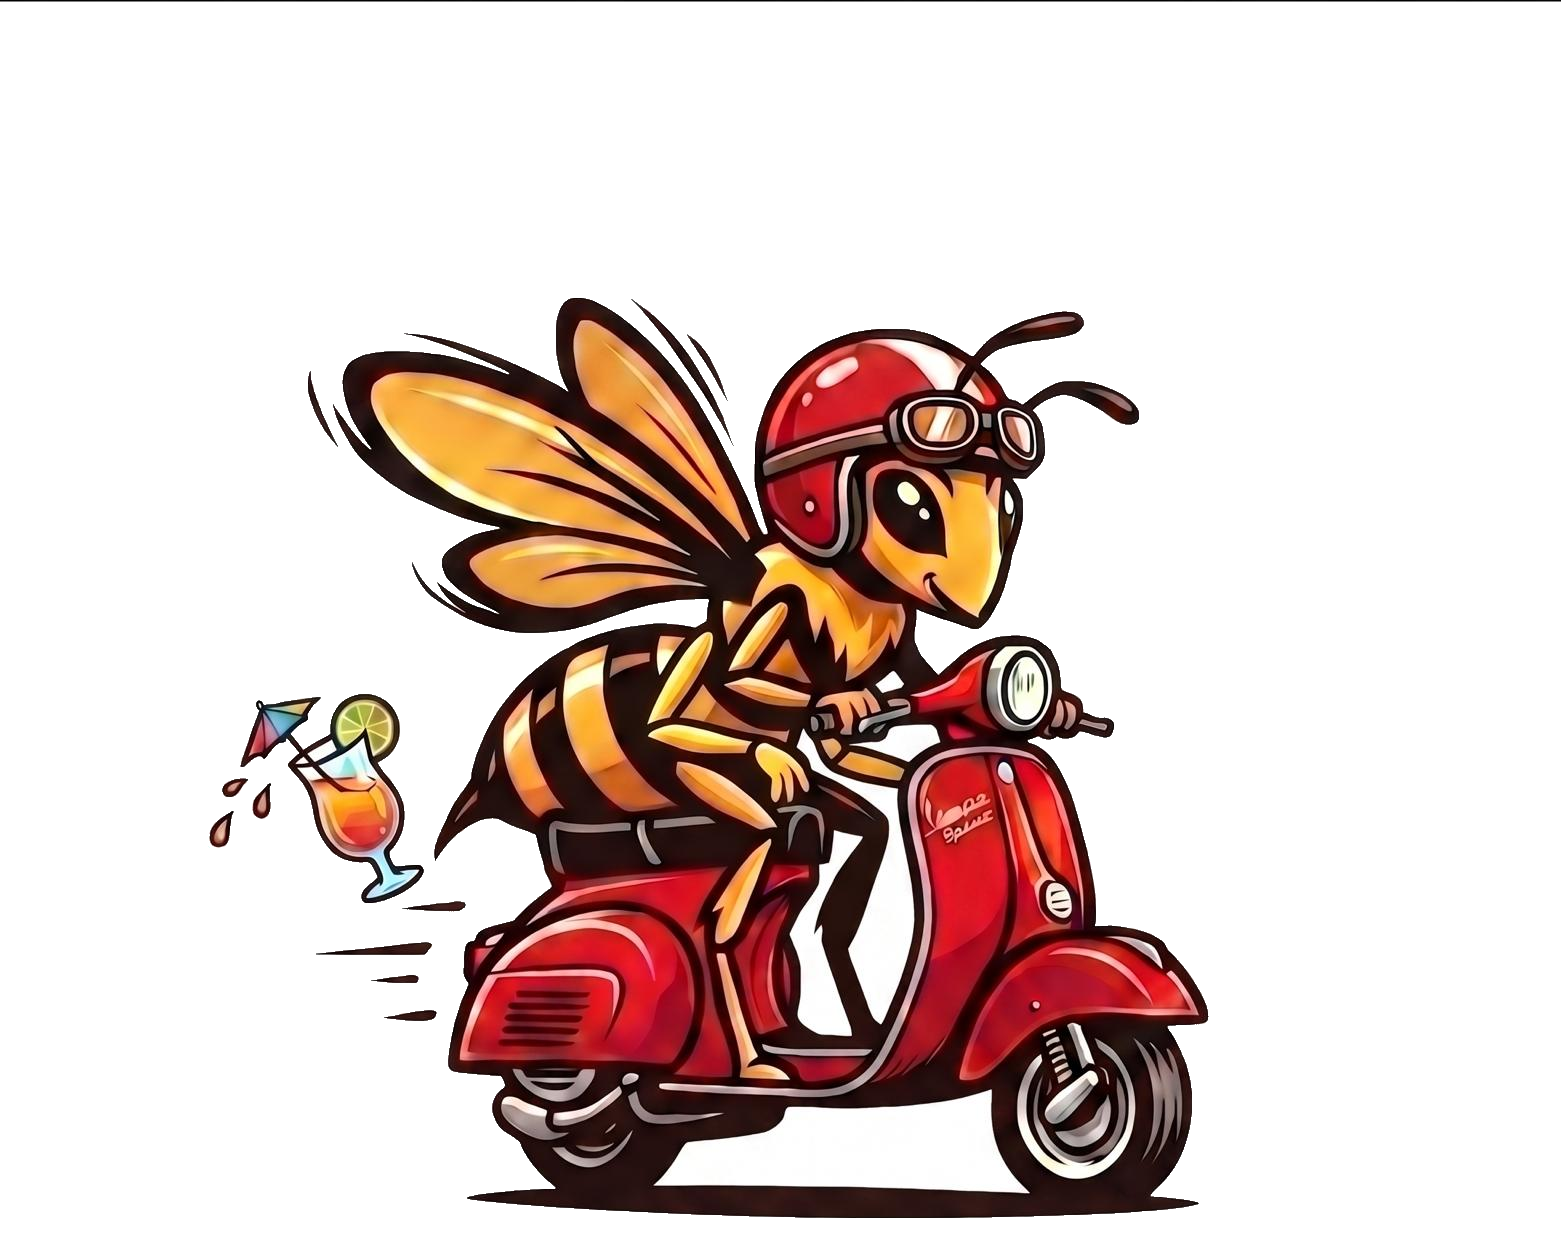
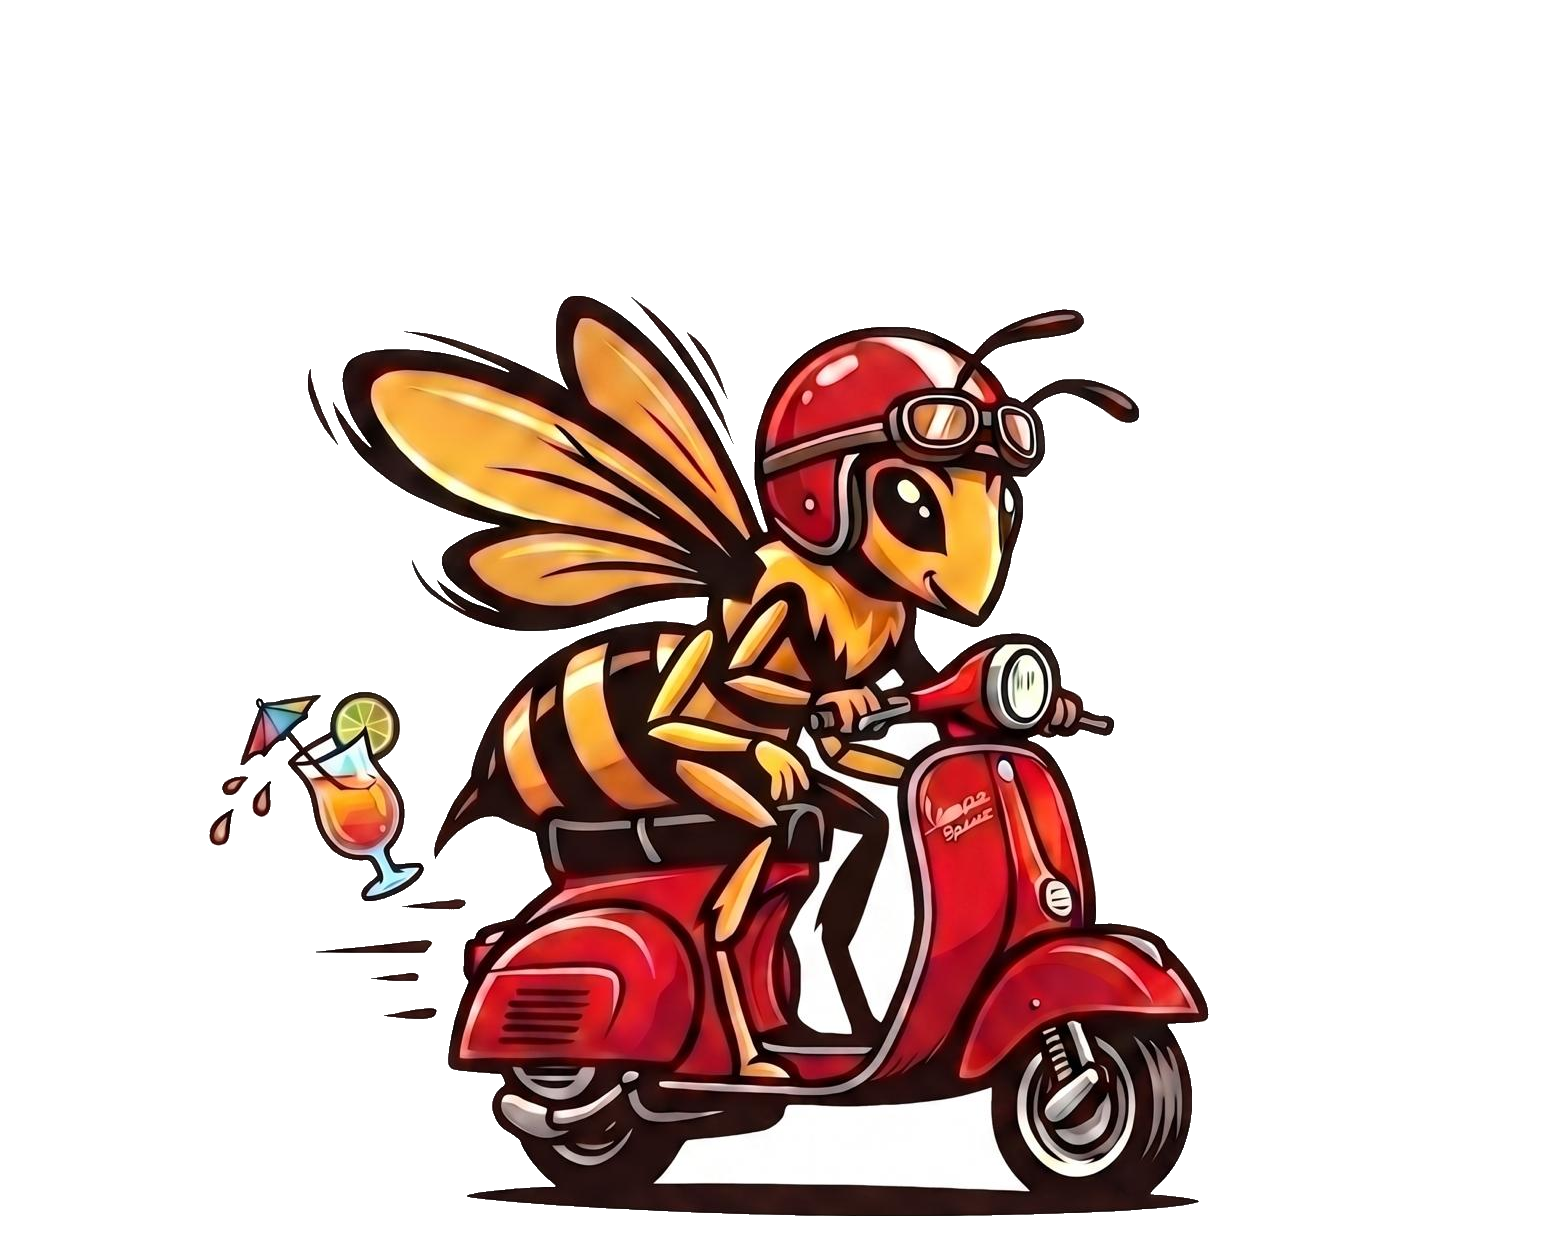
Add orange scroll hint to home offer cards on mobile, remove stray line from Vespa image

diff --git a/src/components/home/home-sections.tsx b/src/components/home/home-sections.tsx
@@ -1,5 +1,6 @@
 "use client";
 
+import { useState } from "react";
 import Link from "next/link";
 import { ClayLink } from "@/components/ui/clay-button";
 import { Reveal } from "@/components/ui/reveal";
@@ -80,6 +81,15 @@ const APE_PRICE_RANGE: Record<string, string> = {
 export function OffersSection({ promotions }: { promotions: Promotion[] }) {
   const { t } = useLang();
   const h = t.home;
+  const [scrollPos, setScrollPos] = useState<"start" | "mid" | "end">("start");
+
+  function handleGridScroll(e: React.UIEvent<HTMLElement>) {
+    const el = e.currentTarget;
+    const atStart = el.scrollLeft <= 4;
+    const atEnd = el.scrollLeft + el.clientWidth >= el.scrollWidth - 4;
+    setScrollPos(atStart ? "start" : atEnd ? "end" : "mid");
+  }
+
   return (
     <section className="page-section page-section--dark page-section--offers">
       <div className="offers-header">
@@ -88,7 +98,8 @@ export function OffersSection({ promotions }: { promotions: Promotion[] }) {
         <span className="eyebrow offers-header__eyebrow--mobile">{h.bookNowEyebrow}</span>
         <h2 className="offers-header__title--mobile">{h.chooseTitle[0]}<span style={{ color: "var(--gold)" }}>{h.chooseTitle[1]}</span>{h.chooseTitle[2]}</h2>
       </div>
-      <div className="offer-grid">
+      <div className="offer-grid-wrap">
+      <div className="offer-grid" onScroll={handleGridScroll}>
         {promotions.map((promotion) => (
           <div className="offer-card" key={promotion.id}>
             {promotion.apeType && (
@@ -109,6 +120,9 @@ export function OffersSection({ promotions }: { promotions: Promotion[] }) {
             </Link>
           </div>
         ))}
+      </div>
+      {scrollPos !== "end" && <div className="offer-grid-wrap__hint-right" aria-hidden="true" />}
+      {scrollPos !== "start" && <div className="offer-grid-wrap__hint-left" aria-hidden="true" />}
       </div>
       <div className="section-cta section-cta--desktop">
         <ClayLink href="/offers" variant="secondary">Tutte le offerte</ClayLink>

diff --git a/src/app/globals.css b/src/app/globals.css
@@ -2342,6 +2342,8 @@ main > *:not(.dashboard-layout):not(.user-dash-layout):not(.search-page):not(.ev
 .page-section--dark .section-heading__copy { color: rgba(255,255,255,0.5); }
 
 .page-section--offers { padding: 2rem 0; }
+.offer-grid-wrap__hint-right,
+.offer-grid-wrap__hint-left { display: none; }
 
 .offers-header {
   display: flex;
@@ -8827,6 +8829,26 @@ body:has(.search-page--map) > main {
   .offer-grid > *, .event-grid > * {
     flex: 0 0 min(200px, 62vw);
     scroll-snap-align: start;
+  }
+  /* Ombreggiatura arancione che indica di scorrere le card offerte */
+  .offer-grid-wrap { position: relative; }
+  .offer-grid-wrap__hint-right,
+  .offer-grid-wrap__hint-left {
+    display: block;
+    position: absolute;
+    top: 0;
+    bottom: 0.75rem;
+    width: 4rem;
+    pointer-events: none;
+    z-index: 2;
+  }
+  .offer-grid-wrap__hint-right {
+    right: 0;
+    background: linear-gradient(to left, rgba(245,130,0,0.75), rgba(245,130,0,0.25) 55%, transparent);
+  }
+  .offer-grid-wrap__hint-left {
+    left: 0;
+    background: linear-gradient(to right, rgba(245,130,0,0.75), rgba(245,130,0,0.25) 55%, transparent);
   }
   .offer-card { padding: 0.65rem 0.75rem; gap: 0; align-items: center; justify-content: flex-start; }
   .offer-card__desktop { display: none; }
